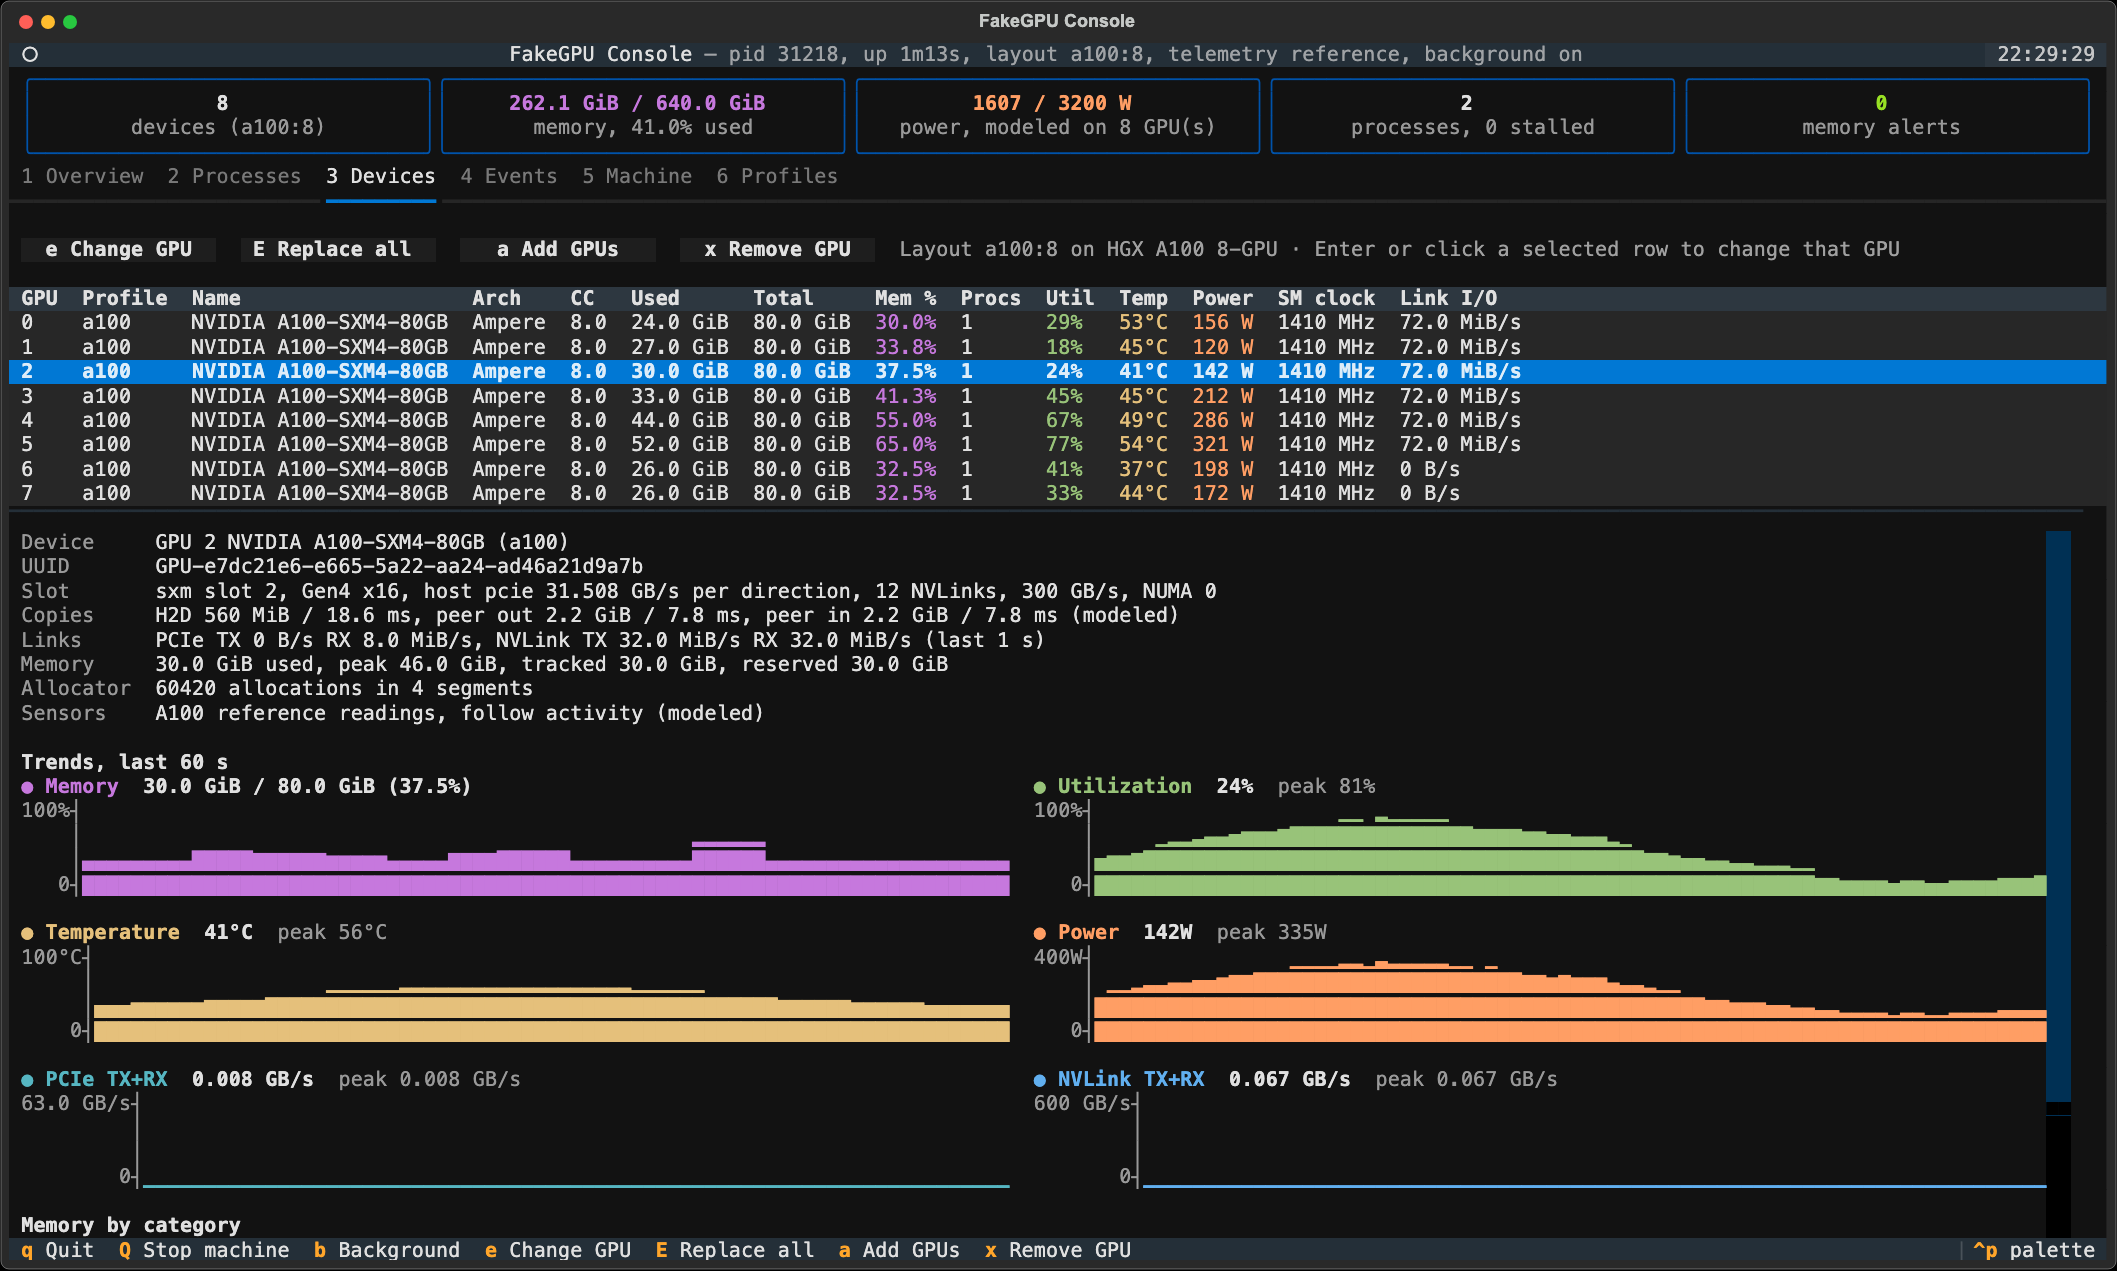
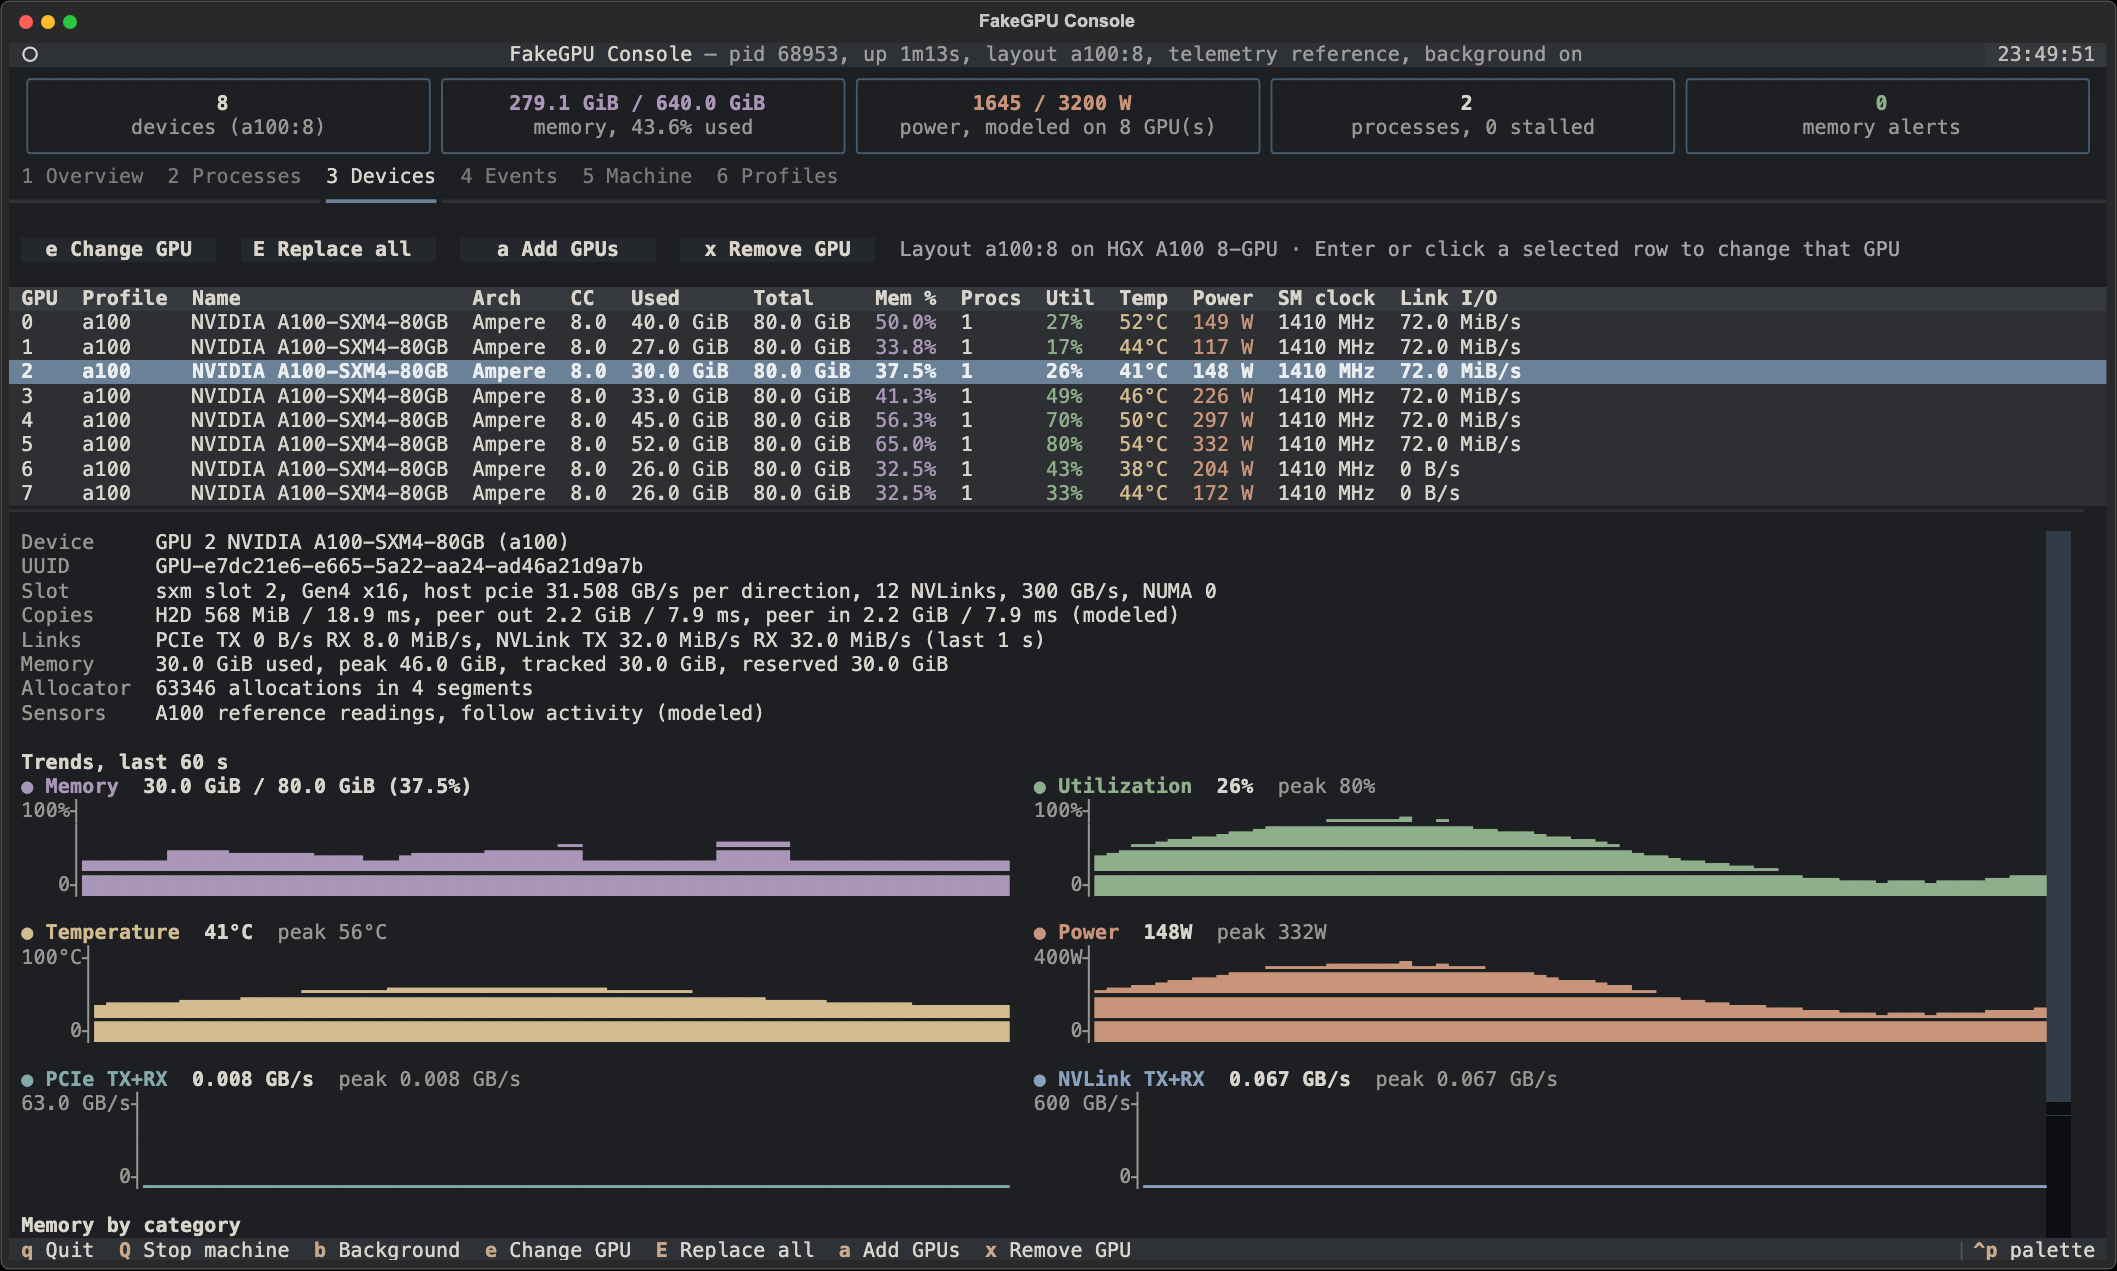
feat(console): switch to a muted Morandi palette and theme
Readings, warning levels, process states and GPU names take low-saturation colors from one palette, and a registered Textual theme tones down the tabs, borders, footer keys and the selected row. The README console screenshots show the new palette.

diff --git a/fakegpu/console/app.py b/fakegpu/console/app.py
@@ -37,7 +37,12 @@ from ..platforms import AUTO, load_platforms, resolve_platform
 from ..machine.service import EVENT_BUFFER
 from ..profile_catalog import get_profile, load_profiles
 from .widgets import (
+    ALERT,
     COLORS,
+    NAME,
+    OK,
+    THEME,
+    WARNING,
     Chart,
     GpuCard,
     StatTile,
@@ -263,18 +268,18 @@ def plan_view(plan: LayoutPlan, profile_id: str) -> Group:
     profile = get_profile(profile_id)
     power = f" · {profile.max_power_limit_mw / 1000:.0f} W" if profile.max_power_limit_mw else ""
     heading = Text.assemble(
-        (profile.id, "bold cyan"), "  ",
+        (profile.id, NAME), "  ",
         f"{profile.torch_name or profile.name} · {profile.architecture.capitalize()} · "
         f"{size(profile.memory_bytes)} · CC {profile.compute_capability_text}{power}",
     )
     if plan.error:
-        return Group(heading, Text(f"Cannot build this machine: {plan.error}", style="red"))
+        return Group(heading, Text(f"Cannot build this machine: {plan.error}", style=ALERT))
     total = sum(get_profile(item).memory_bytes for item in plan.profiles)
     rows: list[tuple[str, Any]] = [
         ("Layout", f"{plan.changes['devices']} ({len(plan.profiles)} GPUs, {size(total)})"),
         ("Platform", plan.platform),
     ]
-    rows += [("Also", Text(note, style="yellow", overflow="fold")) for note in plan.notes]
+    rows += [("Also", Text(note, style=WARNING, overflow="fold")) for note in plan.notes]
     return Group(heading, key_values(rows))
 
 
@@ -304,7 +309,7 @@ def platform_view(platform: dict[str, Any]) -> list[Any]:
     for column in range(count):
         matrix.add_column(f"GPU{column}", no_wrap=True)
     for row, cells in enumerate(platform["matrix"]):
-        matrix.add_row(f"GPU{row}", *[Text(cell, style="green" if cell.startswith("NV") else "") for cell in cells])
+        matrix.add_row(f"GPU{row}", *[Text(cell, style=OK if cell.startswith("NV") else "") for cell in cells])
     parts: list[Any] = [
         Text("Platform", style="bold"),
         key_values([
@@ -316,7 +321,7 @@ def platform_view(platform: dict[str, Any]) -> list[Any]:
     ]
     if count > 1:
         parts.extend([Text("GPU links (as nvidia-smi topo -m)", style="dim"), matrix])
-    parts.extend(Text(note, style="yellow", overflow="fold") for note in platform["notes"])
+    parts.extend(Text(note, style=WARNING, overflow="fold") for note in platform["notes"])
     return parts
 
 
@@ -395,7 +400,7 @@ class ProfilePicker(ModalScreen["tuple[str, int] | None"]):
         needle = text.strip().lower()
         sync_rows(self.query_one("#picker-table", DataTable), [
             (p.id, (
-                Text(p.id, style="bold cyan" if p.id == self.current else ""), short(p.torch_name or p.name, 34),
+                Text(p.id, style=NAME if p.id == self.current else ""), short(p.torch_name or p.name, 34),
                 p.architecture, p.form_factor or "-", p.segment, size(p.memory_bytes), p.compute_capability_text,
                 f"{p.max_power_limit_mw / 1000:.0f} W" if p.max_power_limit_mw else "-",
             ))
@@ -425,7 +430,7 @@ class ProfilePicker(ModalScreen["tuple[str, int] | None"]):
         if choice is None:
             preview.update(Text("No profile matches the filter.", style="dim"))
         elif choice[1] < 1:
-            preview.update(Text("Count must be at least 1.", style="red"))
+            preview.update(Text("Count must be at least 1.", style=ALERT))
         else:
             plan = self.preview(*choice)
             preview.update(plan_view(plan, choice[0]))
@@ -646,6 +651,8 @@ class ConsoleApp(App[str]):
         yield Footer()
 
     def on_mount(self) -> None:
+        self.register_theme(THEME)
+        self.theme = THEME.name
         columns = {
             "gpu-list": ("GPU", "Model", "Memory", "Utilization", "Power", "Temp", "Procs", "Utilization trend"),
             "overview-processes": ("PID", "Name", "Status", "GPUs", "Memory", "GPU %", "Uptime"),
@@ -730,7 +737,7 @@ class ConsoleApp(App[str]):
             str(summary["process_count"]), f"processes, {summary['stalled_count']} stalled"
         )
         self.query_one("#stat-alerts", StatTile).show(
-            str(summary["alerts"]), "memory alerts", "bold red" if summary["alerts"] else "bold green"
+            str(summary["alerts"]), "memory alerts", f"bold {ALERT}" if summary["alerts"] else f"bold {OK}"
         )
         sensed = [d for d in status["devices"] if d["telemetry"]]
         if sensed:
@@ -802,7 +809,7 @@ class ConsoleApp(App[str]):
         def gpu_percent(process: dict) -> str:
             return "N/A" if process["gpu_percent"] is None else f"{process['gpu_percent']}%"
 
-        status_style = {"running": "green", "stalled": "yellow"}
+        status_style = {"running": OK, "stalled": WARNING}
         sync_rows(self.query_one("#overview-processes", DataTable), [
             (str(p["pid"]), (
                 str(p["pid"]), p["name"], Text(p["status"], style=status_style.get(p["status"], "")), gpus(p),
@@ -818,7 +825,7 @@ class ConsoleApp(App[str]):
             ))
             for p in processes
         ])
-        result_style = {"exited": "green", "terminated": "yellow", "vanished": "red"}
+        result_style = {"exited": OK, "terminated": WARNING, "vanished": ALERT}
         sync_rows(self.query_one("#ended-table", DataTable), [
             (f"{p['pid']}-{p['ended_at']}", (
                 str(p["pid"]), p["name"], Text(p["reason"], style=result_style.get(p["status"], "")),
@@ -834,7 +841,7 @@ class ConsoleApp(App[str]):
             memory, sensors = d["memory"], d["telemetry"] or {}
             # A GPU outside the layout is one a running process still holds
             # from the layout it started with.
-            index = str(d["index"]) if d["in_layout"] else Text(f"{d['index']}*", style="yellow")
+            index = str(d["index"]) if d["in_layout"] else Text(f"{d['index']}*", style=WARNING)
             rows.append((device_key(d), (
                 index, d["profile_id"], d["name"], d["architecture"], d["compute_capability"],
                 size(memory["used_bytes"]), size(memory["total_bytes"]),
@@ -1033,13 +1040,13 @@ class ConsoleApp(App[str]):
                 nvlink_bridges=self.query_one("#cfg-bridges", Input).value,
             )
         except ValueError as exc:
-            check.update(Text(str(exc), style="red"))
+            check.update(Text(str(exc), style=ALERT))
             return
         catalog = {p.id: p for p in self.profiles}
         total = sum(catalog[p].memory_bytes for p in profiles)
         check.update(Text(
             f"{len(profiles)} device(s), {size(total)} in total, on {resolved.platform.name}",
-            style="green",
+            style=OK,
         ))
 
     @on(Button.Pressed, "#cfg-apply")

diff --git a/fakegpu/console/widgets.py b/fakegpu/console/widgets.py
@@ -10,24 +10,55 @@ from rich.measure import Measurement
 from rich.table import Table
 from rich.text import Text
 from textual.message import Message
+from textual.theme import Theme
 from textual.widgets import DataTable, Static
 
 SPARK = "▁▂▃▄▅▆▇█"
-LEVEL_STYLE = {"info": "cyan", "warning": "yellow", "error": "bold red"}
-LEVEL_LABEL = {"info": "INFO", "warning": "WARN", "error": "ERROR"}
-# One color per kind of reading, the same in bars, charts and labels. Fixed
-# RGB values keep them apart from the red/yellow/green of warning levels
-# whatever the terminal's ANSI palette is.
-COLORS = {
-    "memory": "#c678dd",
-    "gpu": "#98c379",
-    "temperature": "#e5c07b",
-    "power": "#ff9e64",
-    "pcie": "#56b6c2",
-    "nvlink": "#61afef",
-    "c2c": "#73daca",
-    "link": "#56b6c2",
+# Morandi palette: muted, grey-toned colors, still far enough apart to tell
+# readings from one another. Fixed RGB values do not depend on the
+# terminal's ANSI palette.
+PALETTE = {
+    "sage": "#8fae8b",
+    "mauve": "#a996b8",
+    "sand": "#d2bb8f",
+    "clay": "#c9957a",
+    "teal": "#84a9ab",
+    "blue": "#8aa1bd",
+    "taupe": "#b5a48f",
+    "steel": "#a9bccb",
+    "mustard": "#cfae73",
+    "rose": "#c4807a",
 }
+OK, WARNING, ALERT = PALETTE["sage"], PALETTE["mustard"], PALETTE["rose"]
+NAME = f"bold {PALETTE['steel']}"
+LEVEL_STYLE = {"info": PALETTE["teal"], "warning": WARNING, "error": f"bold {ALERT}"}
+LEVEL_LABEL = {"info": "INFO", "warning": "WARN", "error": "ERROR"}
+# One color per kind of reading, the same in bars, charts and labels.
+COLORS = {
+    "memory": PALETTE["mauve"],
+    "gpu": PALETTE["sage"],
+    "temperature": PALETTE["sand"],
+    "power": PALETTE["clay"],
+    "pcie": PALETTE["teal"],
+    "nvlink": PALETTE["blue"],
+    "c2c": PALETTE["taupe"],
+    "link": PALETTE["teal"],
+}
+# Widgets, borders, tabs and the selected row in the same muted tones.
+THEME = Theme(
+    name="fakegpu-morandi",
+    primary="#6b8197",
+    secondary=PALETTE["mauve"],
+    accent="#c9a98a",
+    success=OK,
+    warning=WARNING,
+    error=ALERT,
+    foreground="#d9d5cd",
+    background="#1d1f22",
+    surface="#24272b",
+    panel="#2e3237",
+    dark=True,
+)
 
 
 def size(value: int | None) -> str:
@@ -57,7 +88,7 @@ def duration(seconds: float | None) -> str:
 
 
 def level_style(percent: float) -> str:
-    return "red" if percent >= 90 else "yellow" if percent >= 70 else "green"
+    return ALERT if percent >= 90 else WARNING if percent >= 70 else OK
 
 
 def number(value: float) -> str:
@@ -230,7 +261,7 @@ def device_key(device: dict[str, Any]) -> str:
 
 def reading(label: str, color: str, percent: float | None, width: int, text: str) -> Text:
     """``LABEL ████░░░░ text`` with the label and bar in the reading's color."""
-    style = "bold red" if percent is not None and percent >= 90 else ""
+    style = f"bold {ALERT}" if percent is not None and percent >= 90 else ""
     return Text.assemble((f"{label:<5}", color), bar(percent, width, color), " ", (text, style))
 
 
@@ -254,15 +285,15 @@ class GpuCard(Static):
         self.set_class(device["process_count"] > 0, "busy")
         self.set_class(percent >= warning_percent, "warn")
         self.set_class(memory["used_bytes"] > memory["total_bytes"], "alert")
-        title = Text.assemble((f"GPU {device['index']} ", "bold"), (device["name"], "bold cyan"))
+        title = Text.assemble((f"GPU {device['index']} ", "bold"), (device["name"], NAME))
         if not device["in_layout"]:
-            title.append("  (not in layout)", style="yellow")
+            title.append("  (not in layout)", style=WARNING)
         processes = device["process_count"]
         lines = [
             title,
             Text.assemble(
                 (f"{device['profile_id']}  {device['architecture']}  CC {device['compute_capability']}  ", "dim"),
-                (f"{processes} process{'es' if processes != 1 else ''}", "bold green" if processes else "dim"),
+                (f"{processes} process{'es' if processes != 1 else ''}", f"bold {OK}" if processes else "dim"),
             ),
             reading(
                 "MEM", COLORS["memory"], percent, self.BAR, memory_pair(memory["used_bytes"], memory["total_bytes"])

diff --git a/docs/en/console.md b/docs/en/console.md
@@ -59,9 +59,10 @@ layout, idle ones included, and the processes on the machine.
 | `5` Machine | Settings form (layout, platform, PCIe slot generation, NVLink bridges, telemetry, background, stale and memory warning thresholds), the slot map and GPU link matrix, daemon and path information |
 | `6` Profiles | The GPU profile catalog; `a` or Enter adds the selected profile to the layout form |
 
-Every reading keeps one color in the cards, charts and tables: memory purple,
-utilization green, power orange, temperature yellow, and link traffic cyan
-(PCIe) or blue (NVLink). Red values and card borders mark warnings.
+The console uses a muted, low-saturation (Morandi) palette, and every reading
+keeps one color in the cards, charts and tables: memory mauve, utilization
+sage, power clay, temperature sand, and link traffic teal (PCIe) or dusty blue
+(NVLink). Rose values and mustard or rose card borders mark warnings.
 
 | Key | Action |
 |---|---|

diff --git a/docs/zh-TW/console.md b/docs/zh-TW/console.md
@@ -51,8 +51,9 @@ PYTHON
 | `5` Machine | 設定表單（配置、平台、PCIe 插槽代數、NVLink 橋、遙測、背景模式、心跳逾時與記憶體警告門檻）、插槽圖與 GPU 鏈路矩陣、常駐程序與路徑資訊 |
 | `6` Profiles | GPU profile 目錄；按 `a` 或 Enter 把選取的 profile 加入配置表單 |
 
-每種讀數在卡片、曲線與表格中使用固定的顏色：記憶體紫色、使用率綠色、功耗橙色、溫度黃色，
-鏈路流量為青色（PCIe）或藍色（NVLink）。紅色數值與卡片邊框表示警告。
+控制台使用低飽和度的莫蘭迪配色，每種讀數在卡片、曲線與表格中使用固定的顏色：記憶體灰紫、
+使用率灰綠、功耗陶土色、溫度沙色，鏈路流量為灰青（PCIe）或灰藍（NVLink）。豆沙紅數值、
+芥末黃或豆沙紅卡片邊框表示警告。
 
 | 按鍵 | 作用 |
 |---|---|

diff --git a/docs/zh-CN/console.md b/docs/zh-CN/console.md
@@ -51,8 +51,9 @@ PYTHON
 | `5` Machine | 设置表单（布局、平台、PCIe 插槽代数、NVLink 桥、遥测、后台模式、心跳超时和显存告警阈值）、插槽图和 GPU 链路矩阵、守护进程与路径信息 |
 | `6` Profiles | GPU profile 目录；按 `a` 或 Enter 把选中的 profile 加入布局表单 |
 
-每种读数在卡片、曲线和表格中使用固定的颜色：显存紫色、利用率绿色、功耗橙色、温度黄色，
-链路流量为青色（PCIe）或蓝色（NVLink）。红色数值和卡片边框表示告警。
+控制台使用低饱和度的莫兰迪配色，每种读数在卡片、曲线和表格中使用固定的颜色：显存灰紫、
+利用率灰绿、功耗陶土色、温度沙色，链路流量为灰青（PCIe）或灰蓝（NVLink）。豆沙红数值、
+芥末黄或豆沙红卡片边框表示告警。
 
 | 按键 | 作用 |
 |---|---|
